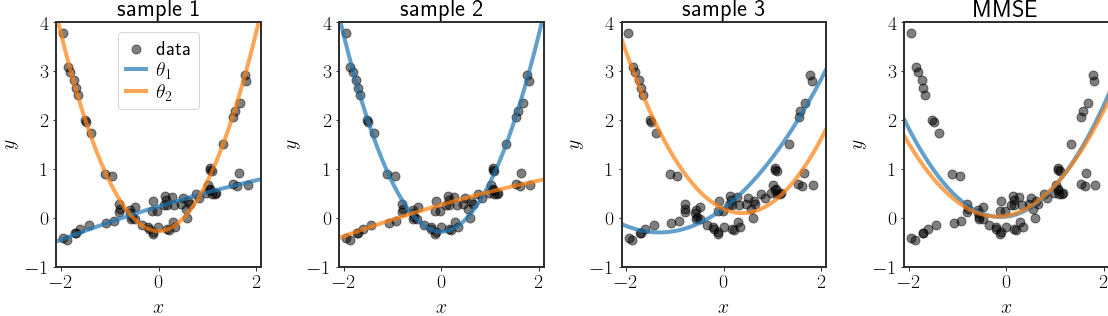
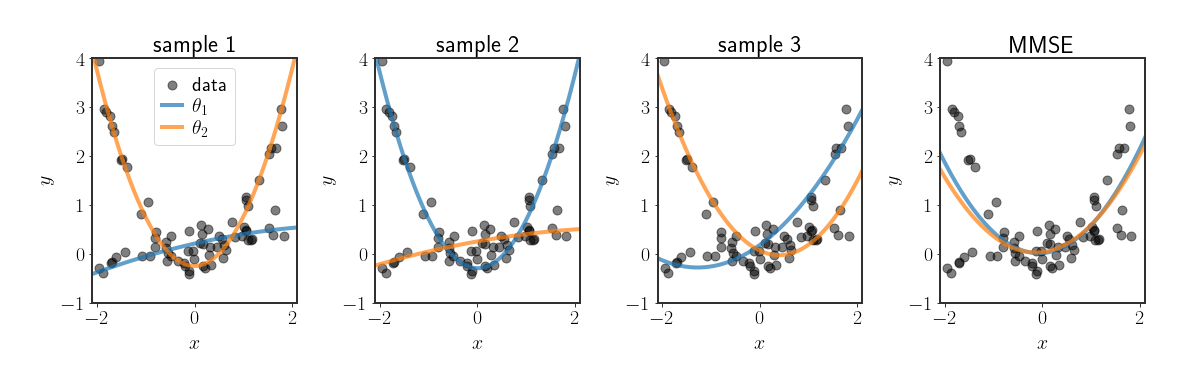
sampling

diff --git a/_BML/14_sampling.md b/_BML/14_sampling.md
@@ -1,0 +1,193 @@
+---
+layout: distill
+comments: false
+title: The Benefits of Sampling
+description: When the posterior is complex, it is typically quite hard to get a sense for the full distribution. As such, it is common to represent the full distribution using samples from the posterior. In this post we will look at the benefits of doing so.
+date: 2025-10-20
+authors:
+  - name: Roy Friedman
+    affiliations:
+      name: Hebrew University
+toc:
+  - name: The Problem with Point Estimates
+  - name: Concrete Example
+  - name: Discussion
+---
+
+<span style="float:left"><a href="https://friedmanroy.github.io/BML/13_gmms/">← GMMs and EM</a></span><span style="float:right"><a href=""> →</a></span>
+<br>
+<br>
+
+
+Throughout most of the previous posts, the focus was Gaussian priors and posteriors. The simplicity of the Gaussian distribution allowed us to directly characterize the full posterior distribution fairly easily - all we needed to describe the whole distribution was the mean (MMSE/MAP) and the covariance of the posterior. In those cases, trying to find the mean or maximum of the posterior makes a lot of sense, as it portrays most of the important aspects of the distribution. However, for more complex distributions, using a single estimate of the parameters (such as the MAP or MMSE) in order to describe the full posterior might not be the best approach.
+
+In this post we will look at an alternative to point estimates (such as the MAP or MMSE), in the form of *sampling parameters from the posterior*.
+
+---
+# The Problem with Point Estimates
+
+First, I'd like to motivate why point estimates might be suboptimal in some cases. We'll start with an abstract example and then look at more concrete scenarios. Consider the following sketch of a hypothetical posterior distribution:
+
+<div class="fake-img l-page">
+<p align="center">
+<img  
+src="https://friedmanroy.github.io/assets/bml_figs/rec_14/bad_avg.png"  
+alt="Point estimates under a GMM posterior"  
+style="display: inline-block; margin: 0 auto; ">
+</p>
+</div>
+<div class="caption">
+    Figure 1: A sketch of a GMM posterior distribution. The dashed, blue line depicts the position of the mean of the distribution (i.e. the MMSE estimate) whereas the dashed, red line is the position of the maximum (the MAP estimate).
+</div>
+
+In this, admittedly quite synthetic, scenario both the MAP and MMSE estimates are a rather poor indication of the posterior as a whole. The MMSE falls in a very unlikely region of space, just between both modes. The MAP is better, since it at least has a higher density, but is also located on a rather narrow region of the posterior, which is still a bad description of the overall distribution.
+
+In fact, any single parameter choice on this distribution will misrepresent the distribution as a whole! 
+
+What do I mean by that? The distribution has 3 different modes - three separate regions of high probability. If we arbitrarily choose any one of them as the representative for the whole distribution, then we are missing the information about the other 2 modes. Moreover, in cases like this, even choosing the mode according to the MAP estimate *describes the least likely mode out of the 3*. This is quite different to the Gaussian cases we explored previously, where the mean of the posterior really did give us most of the information we needed about the posterior distribution.
+
+
+## Why Represent the Posterior?
+
+A natural question at this point is: why do we even need estimates that represent the posterior? Don't we always have access to the full posterior?
+
+This is a valid concern, and if we write down the full posterior (as in the Gaussian cases we considered), we should definitely use all the information we have. But, in many real world cases it is impossible to write down the posterior in closed form, or save the value of the posterior in every place. More concrete examples for this will come in later posts, but let's consider a simple hypothetical scenario:
+
+> Suppose we want to classify images, and are using a neural network with thousands, millions, or billions, of parameters $\theta\in\mathbb{R}^p$ to do so. I'll write down our classifier as the function $f_\theta(x)$ where $x$ is the image. Recall from the [post on discriminative classification](https://friedmanroy.github.io/BML/11_discriminative_classification/) that the posterior for a classification problem has no analytical form - we have no formula for the full posterior. Then, to save all information about the posterior would require saving a dense grid of parameter values in a $p$-dimensional space, which is prohibitive beyond 3 dimensions (the number of points on the grid scales exponentially with the dimension). Moreover, calculating the posterior for each parameter choice requires iterating over the whole training set, which can potentially be very large. So each time we want to calculate the value of the posterior, requires a very computationally expensive loop through the whole training set.
+
+Scenarios such as the one above are a good indication of the situation we find ourselves in many real scientific settings. To handle the overwhelming scope of the posterior, we might instead towards representing it with a few point estimates as best as we can.
+
+## Multiple Estimates
+
+So, what can we do in such a situation? Instead of describing the full distribution using a single, point estimate, we can save a number of possible parameter choices. Doing so can potentially better represent the full information in the posterior distribution.
+
+One option can be to represent the full posterior distribution using each of the local maxima:
+
+<div class="fake-img l-page">
+<p align="center">
+<img  
+src="https://friedmanroy.github.io/assets/bml_figs/rec_14/local_maxima.png"  
+alt="Point estimates under a GMM posterior"  
+style="display: inline-block; margin: 0 auto; ">
+</p>
+</div>
+<div class="caption">
+    Figure 2: Representing the full posterior using local maxima is a better policy than using the MAP or MMSE estimates.
+</div>
+
+Saving these three points in order to represent the whole distribution makes a lot of sense, especially for GMM posteriors such as these. However, for general distributions it will be quite hard to know how many local maxima there actually are, and finding them will also pose a challenge. Furthermore, there might be situations where the local maxima are still quite bad representatives of the full distribution. 
+
+## Sampling from the Posterior
+
+A way that (I feel) is more natural to represent the posterior is by *leveraging the fact that it is a distribution*. Instead of trying to optimize a cost function on the density function, we can instead sample from it directly to get our estimates. These samples then serve as "typical" representatives of what we would expect to observe from the posterior, in the sense that regions of higher mass in the distribution will be more populated than those with lower mass.
+
+In our recurring sketch of a posterior, sampling would give us the following points:
+
+<div class="fake-img l-page">
+<p align="center">
+<img  
+src="https://friedmanroy.github.io/assets/bml_figs/rec_14/samples.png"  
+alt="Point estimates under a GMM posterior"  
+style="display: inline-block; margin: 0 auto; ">
+</p>
+</div>
+<div class="caption">
+    Figure 3: Using samples from the posterior in order to represent the whole distribution.
+</div>
+
+Here I used 10 samples, which are depicted by the positions of the gray, dashed lines. Notice how these samples are more less balanced between the two main modes of the distribution, which really describe most of the density function. 
+
+Now, it might seem that sampling is even harder than the optimization needed to find the modes. But in many situations sampling is quite natural and behaves better than optimization. Indeed, the main focus of the following posts will to introduce methods for easily sampling from the posterior in complex scenarios.
+
+---
+# Concrete Example: Hierarchical Regression
+
+Hopefully the sketches above gave a clear indication of the problem with point estimates. In this section, I'd like to consider a very real, practical setting where using either the MAP or MMSE makes no sense. To this end, I'd like to explore *hierarchical regression*.
+
+The setting for hierarchical linear regression is similar to regular linear regression, expect we expect a mixture of different behaviors in the data. We observe data points $\mathcal{D}=\left\\{(x_i,y_i)\right\\}_{i=1}^N$ which we want to fit using a linear regress, but we assume that each point arose from one out of $K$ different processes, each with their own parameters $\theta_k$ and basis functions $h_k(x)$: 
+
+$$
+y_i=\theta_{k_i}^T h_{k_i}(x_i)+\eta_i\qquad \eta_i\sim\mathcal{N}\left(0,\sigma^2\right)
+$$
+
+For example, we might believe that the $y_i$s are linear or quadratic in $x_i$, and we see a mix of the two behaviors. In this case, the regression problem becomes:
+
+$$
+y_i=\begin{cases}\theta_1\cdot x_i\\\text{or}\\\theta_2\cdot x_i^2\end{cases}+\eta_i
+$$
+
+Data in such a scenario will look similar to:
+
+<div class="fake-img l-page">
+<p align="center">
+<img  
+src="https://friedmanroy.github.io/assets/bml_figs/rec_14/sparse_example.png"  
+alt="Example for data in hierarchical regression."  
+style="display: inline-block; margin: 0 auto; ">
+</p>
+</div>
+<div class="caption">
+    Figure 4: An example of how data in hierarchical regression looks when we don't know the true allocation to basis functions (left) vs. when we do know the allocation (right).
+</div>
+
+So, to solve this regression problem, we would want to know what the true allocation of each data point is to each of the possible basis functions, and the respective parameters for that basis function. Solving this problem is very nontrivial. 
+
+## Hierarchical Regression Posterior
+
+Concretely, we have a Gaussian prior over the parameters for every behavior:
+
+$$
+\theta_k\sim\mathcal{N}\left(\mu_k,\Sigma_k\right)
+$$
+
+with a-priori probability $\pi_k$ for each behavior.
+
+The full posterior is given by:
+
+$$
+\begin{align}
+p(\theta\vert \mathcal{D})&=\sum_z p(z,\theta\vert \mathcal{D})
+\end{align}
+$$
+
+where $z=\left\\{k_i\right\\}_{i=1}^N$ is the vector of allocations of each datapoint to the respective behavior. So, while it seems simple in this notation, the above sum actually has $K^N$ different terms - each datapoint can be allocated to each of the different behaviors.
+
+For a given allocation, the term in the summation is:
+
+$$
+\begin{align}
+p(\theta\vert \mathcal{D},z) &\propto p(\mathcal{D}\vert \theta,z)\cdot p(\theta\vert z)\\
+&= \prod_{i=1}^N\mathcal{N}\left(y_i\vert \ \theta_{k_i}^T h_{k_i}(x_i),\ \sigma^2\right) \cdot \prod_{k=1}^K\mathcal{N}\left(\theta_k\vert \ \ \mu_k,\Sigma_k\right)
+\end{align}
+$$
+
+This is quite a mess, but for a particular allocation the posterior for each $\theta_k$ can be found simply by considering this as $K$ separate problems. 
+
+## Samples versus MMSE
+
+In the next post we'll see how we can sample from the above posterior without explicitly calculating all of it. For now, let's just look at samples from posterior versus an MMSE estimate:
+
+<div class="fake-img l-page">
+<p align="center">
+<img  
+src="https://friedmanroy.github.io/assets/bml_figs/rec_14/hierarchical_samples.png"  
+alt="Example fits in hierarchical regression"  
+style="display: inline-block; margin: 0 auto; ">
+</p>
+</div>
+<div class="caption">
+    Figure 5: An example of sampling parameters from the posterior (the 3 plots on the left) versus the MMSE estimate for the parameters (right).  Because there are several different modes for both $\theta_1$ and $\theta_2$, the MMSE averages these out and is bad estimate for the true behavior.
+</div>
+
+As you can see, in this scenario we see the concrete results of taking the mean over a posterior with multiple modes as the MMSE estimate, which misses most of the data. 
+
+This is still quite a simple scenario (and you could "fix" the MMSE in this specific case), but it serves as a very concrete and visual example for the _fitting_ capabilities of sampling from the posterior. Moreover, something we will discuss in the next post is that sampling from this posterior is fairly simple when $K$ is not too large, whereas optimizing the posterior directly would be much more difficult.
+
+---
+# Discussion
+
+Hopefully the examples above provide the conceptual basis for why we would want (multiple) samples in order to describe the full posterior distribution, instead of one specific estimate. In the next few posts will be more mathematically involved, and we will delve into _how_ to sample from the posterior. The examples above, while quite simple, will be our motivation to do so.
+
+
+---
+<span style="float:left"><a href="https://friedmanroy.github.io/BML/13_gmms/">← GMMs and EM</a></span><span style="float:right"><a href=""> →</a></span>

diff --git a/_BML/13_gmms.md b/_BML/13_gmms.md
@@ -14,7 +14,7 @@ toc:
   - name: Discussion
 ---
 
-<span style="float:left"><a href="https://friedmanroy.github.io/BML/12_generative_classification/">← Generative classification</a></span><span style="float:right"><a href=""> →</a></span>
+<span style="float:left"><a href="https://friedmanroy.github.io/BML/12_generative_classification/">← Generative classification</a></span><span style="float:right"><a href="https://friedmanroy.github.io/BML/14_sampling/">Benefits of Sampling →</a></span>
 <br>
 <br>
 >In all of the posts so far, we pretty much stayed with the Gaussian prior and likelihood, even though many times that might not make much sense. The reason we had to keep everything Gaussian is because anything beyond that complicates the mathematics considerably.
@@ -536,4 +536,4 @@ I briefly touched on why finding the average under a GMM posterior might be cons
 <br>
 
 ---
-<span style="float:left"><a href="https://friedmanroy.github.io/BML/12_generative_classification/">← Generative classification</a></span><span style="float:right"><a href=""> →</a></span>
+<span style="float:left"><a href="https://friedmanroy.github.io/BML/12_generative_classification/">← Generative classification</a></span><span style="float:right"><a href="https://friedmanroy.github.io/BML/14_sampling/">Benefits of Sampling →</a></span>
